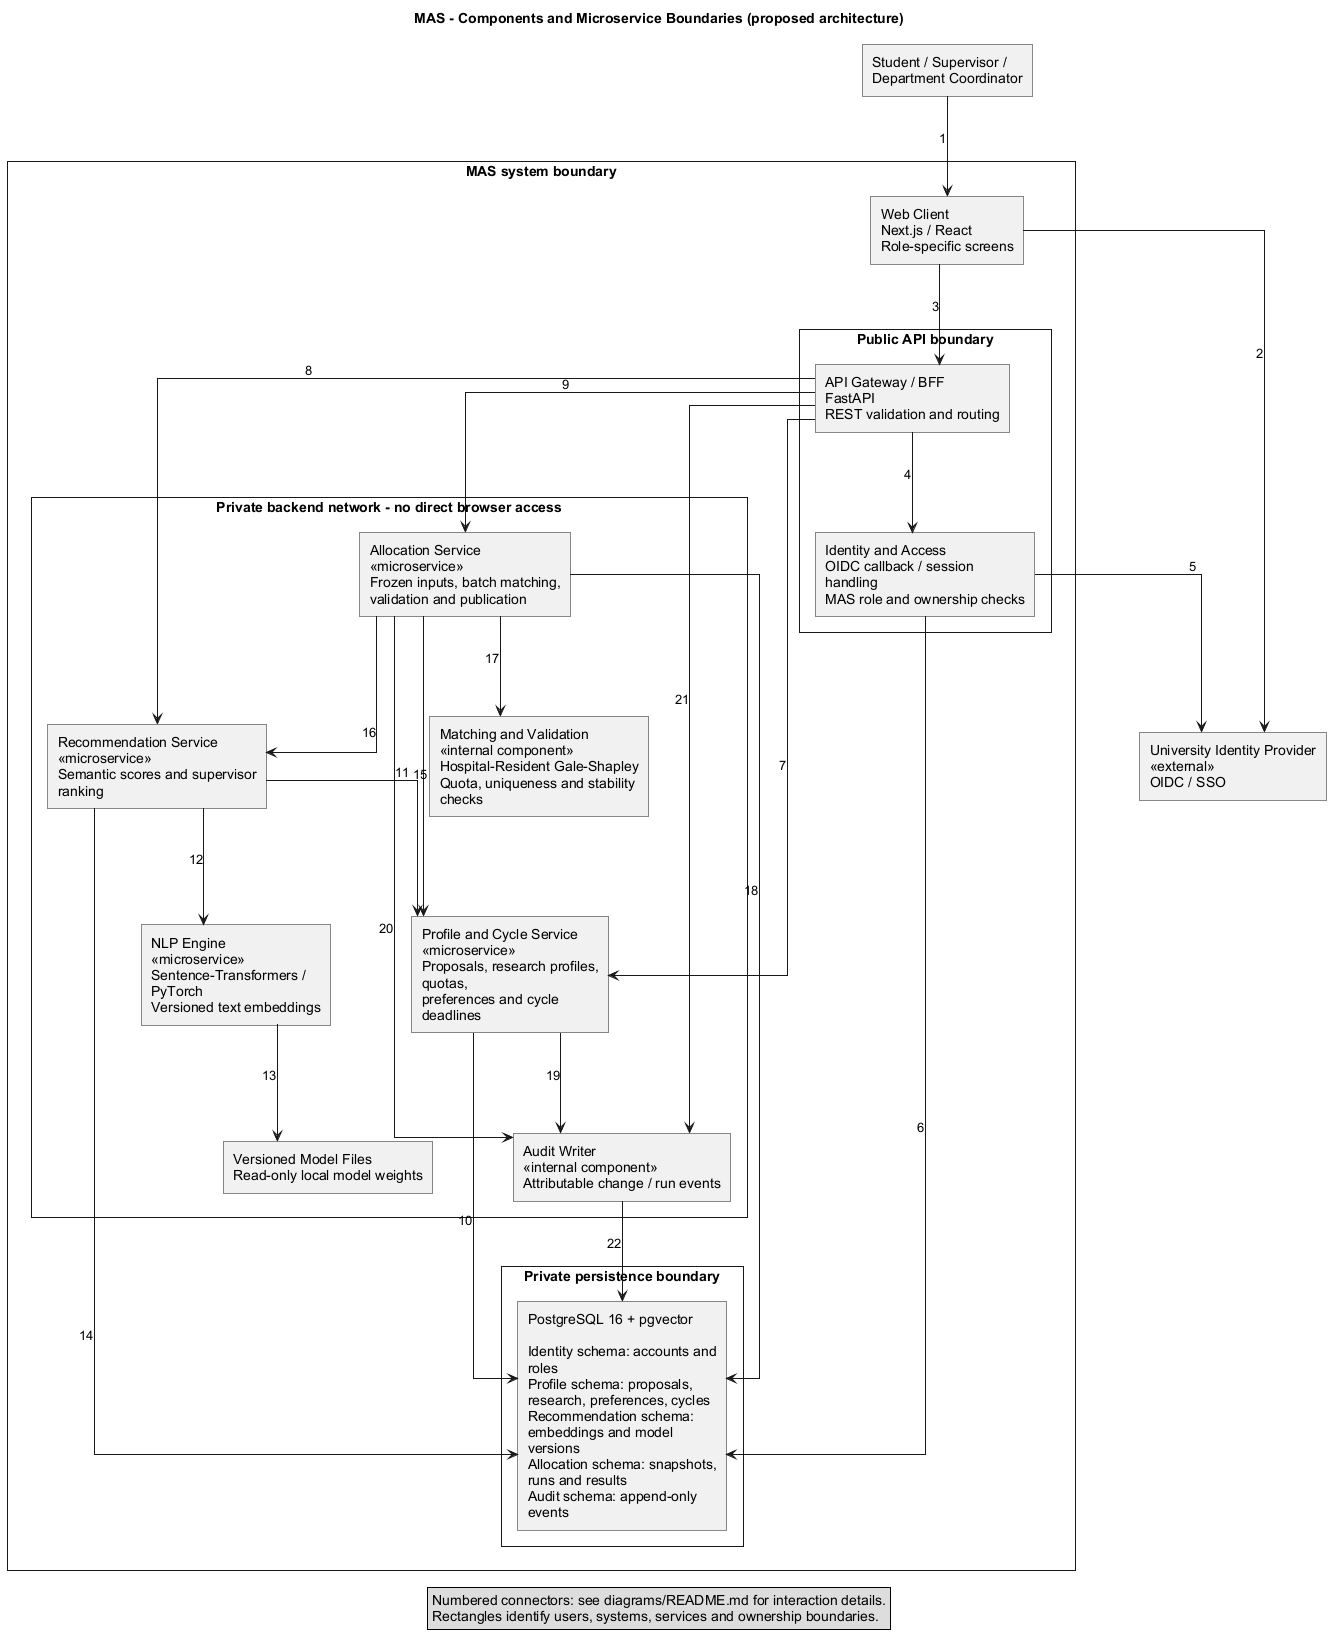
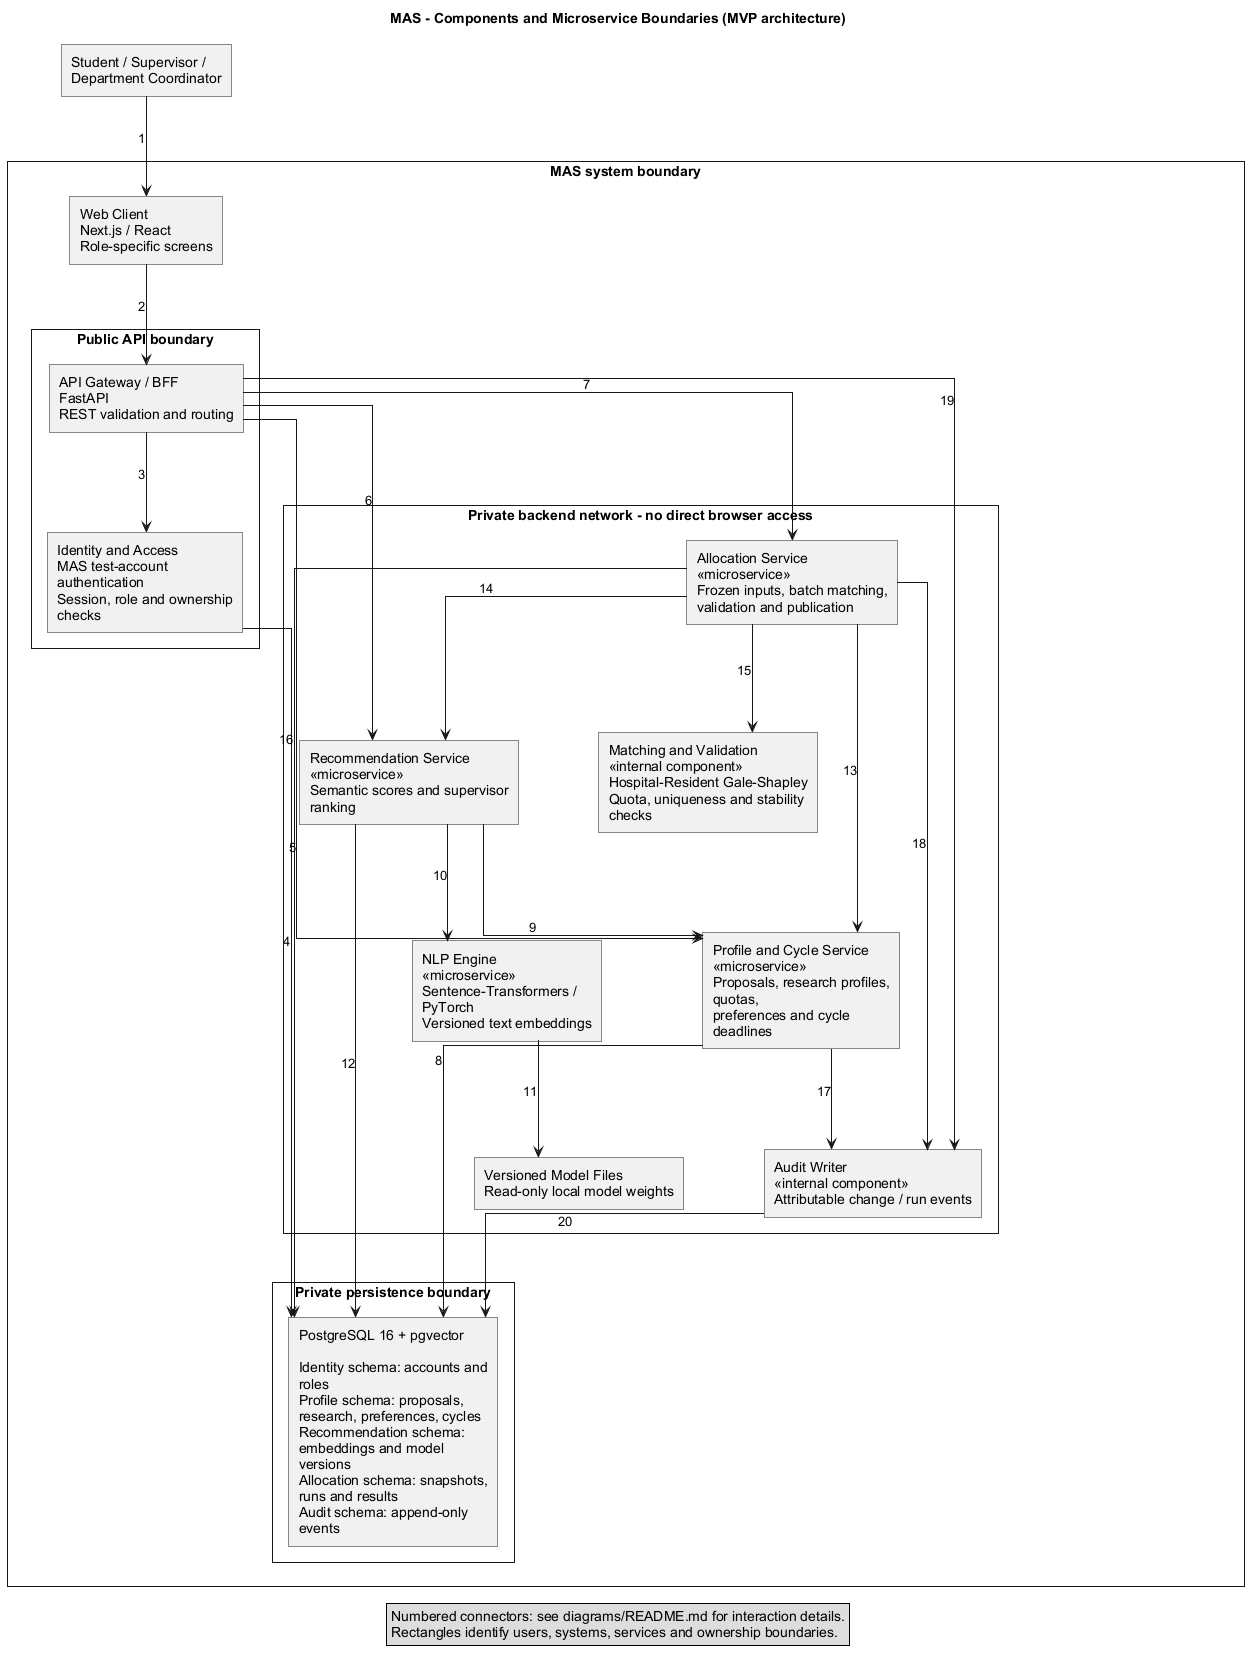
MAS-7a: Align MVP diagrams with local authentication and deadline

diff --git a/diagrams/README.md b/diagrams/README.md
@@ -1,19 +1,19 @@
 # MAS-7a: System context and component diagrams
 
-Due: October 17, 2026. These diagrams describe the proposed architecture derived from README.md and PRE_DEFENSE_PLAN.md; application services are not yet implemented.
+Presentation submission: October 15, 2026. These diagrams describe the proposed MVP architecture derived from README.md, the project proposal, and the requirements specification; application services are not yet implemented.
 
 ## Diagram sources
 
-- [System context](src/system-context.puml): Student, Supervisor and Department Coordinator interactions; external university identity provider; MAS ownership and public API/SSO boundaries.
+- [System context](src/system-context.puml): Student, Supervisor and Department Coordinator interactions; MAS ownership and the authenticated public API boundary.
 - [Component diagram](src/component-diagram.puml): web client, gateway and identity/access component; private profile/cycle, recommendation, NLP and allocation microservices; solver and audit components; PostgreSQL/pgvector and local model files.
 
 ## Architecture decisions and assumptions
 
-The public REST interface belongs to the FastAPI gateway. Browser requests never access private services or PostgreSQL directly. SSO authenticates identity, while MAS controls role assignments and record ownership. OIDC authorization-code flow with PKCE is proposed; university provider availability, registration and claims are pending confirmation. No working SSO integration is claimed.
+The public REST interface belongs to the FastAPI gateway. Browser requests never access private services or PostgreSQL directly. The MVP uses authorized MAS test accounts. The internal Identity and Access component authenticates these accounts, manages sessions, and enforces MAS roles and record ownership. Direct university SSO integration is excluded from the MVP in proposal section 6.3. Adding an external identity provider would require a separately reviewed scope and architecture decision.
 
 Profile/cycle data, embeddings, allocation snapshots/results and identity records have separate schema owners within a shared MVP database. Services read other domains through private authenticated APIs. The audit writer is an internal library/component participating in the calling service's transaction, not an independently committed remote audit service. Its insert-only permissions prevent application-level event mutation.
 
-The recommendation service calls a locally hosted, versioned NLP engine and stores embeddings in pgvector. Allocation consumes frozen, versioned inputs and runs capacity-constrained matching followed by independent hard-constraint and stability validation. Only a coordinator can publish a validated result. Insufficient capacity leaves explicit unmatched students. Final algorithm/model choices remain subject to MAS-5.
+The recommendation service calls a locally hosted, versioned NLP engine and stores embeddings in pgvector. Allocation consumes frozen, versioned inputs and runs capacity-constrained matching followed by independent hard-constraint and stability validation. Only a coordinator can publish a validated result. Insufficient capacity leaves explicit unmatched students. Final algorithm/model choices follow the technology-selection document (docs/05-technology-selection.md).
 
 Microservice boxes define the proposed API and ownership boundaries. This design does not assert independent production deployments already exist. A simpler deployment may co-locate services while preserving those boundaries. An asynchronous queue, external AI API, publication harvesting, and HR/payroll integration are not assumed dependencies.
 
@@ -29,7 +29,7 @@ Run from the repository root. Generated previews belong in diagrams/rendered. Ed
 
 ## Review and delivery
 
-Verify that all three actors are outside MAS; the identity provider is external; public versus private API boundaries are explicit; profile, recommendation, NLP, allocation and persistence responsibilities are visible; draft review and publication remain coordinator-controlled.
+Verify that all three actors are outside MAS; authentication and session handling belong to the internal Identity and Access component; public versus private API boundaries are explicit; profile, recommendation, NLP, allocation and persistence responsibilities are visible; draft review and publication remain coordinator-controlled.
 
 Use branch MAS-7a-system-diagrams and commit prefix MAS-7a:. Per the pre-defense plan, Dias's MAS-7a PR requires Nurzhan's review and approval. Link the merged PR to YouTrack before marking the task Done; do not push directly to main.
 
@@ -47,31 +47,28 @@ Validated and rendered with PlantUML 1.2026.2 on Java 21. SVG previews and PNG c
 | 1 | student | mas | Submit proposal and ranked preferences;; view recommendations and own published result; [HTTPS web UI / authenticated REST API] |
 | 2 | supervisor | mas | Maintain research profile and capacity;; view own published assignments; [HTTPS web UI / authenticated REST API] |
 | 3 | coordinator | mas | Configure cycles and quotas; run, review,; publish and export allocations; [HTTPS web UI / authenticated REST API] |
-| 4 | mas | idp | Browser SSO redirects; exchange authorization code; obtain identity;; retrieve signing keys [OIDC over HTTPS] |
 
 ## Component diagram connections
 
 | No. | From | To | Interaction |
 |---|---|---|---|
 | 1 | users | web | Browser [HTTPS] |
-| 2 | web | idp | Authorization redirect [HTTPS / OIDC + PKCE] |
-| 3 | web | api | REST requests / responses [HTTPS, session] |
-| 4 | api | auth | Authenticate and authorize request |
-| 5 | auth | idp | Code exchange / signing-key discovery [HTTPS] |
-| 6 | auth | db | SQL: MAS accounts and role mapping |
-| 7 | api | profiles | Private authenticated HTTP / JSON |
-| 8 | api | recommend | Private authenticated HTTP / JSON |
-| 9 | api | allocation | Private authenticated HTTP / JSON |
-| 10 | profiles | db | SQL: own schema read/write |
-| 11 | recommend | profiles | Read authorized proposal / research text; [private HTTP / JSON] |
-| 12 | recommend | nlp | Embed text [private HTTP / JSON]; Return vector and model version |
-| 13 | nlp | weights | Load pinned model version |
-| 14 | recommend | db | SQL / vector search:; own embeddings schema |
-| 15 | allocation | profiles | Obtain cycle inputs and approved quotas; [private HTTP / JSON] |
-| 16 | allocation | recommend | Obtain versioned semantic scores; [private HTTP / JSON] |
-| 17 | allocation | solver | Frozen rankings, preferences and capacities; Return assignments and validation report |
-| 18 | allocation | db | SQL: immutable snapshots and runs;; transactional result publication |
-| 19 | profiles | audit | Record accepted input changes |
-| 20 | allocation | audit | Record run and publication changes |
-| 21 | api | audit | Record coordinator policy changes |
-| 22 | audit | db | SQL: insert audit events only |
+| 2 | web | api | REST requests / responses [HTTPS, session] |
+| 3 | api | auth | Authenticate MAS test account; validate session, role and ownership |
+| 4 | auth | db | SQL: MAS accounts and role mapping |
+| 5 | api | profiles | Private authenticated HTTP / JSON |
+| 6 | api | recommend | Private authenticated HTTP / JSON |
+| 7 | api | allocation | Private authenticated HTTP / JSON |
+| 8 | profiles | db | SQL: own schema read/write |
+| 9 | recommend | profiles | Read authorized proposal / research text [private HTTP / JSON] |
+| 10 | recommend | nlp | Embed text [private HTTP / JSON]; return vector and model version |
+| 11 | nlp | weights | Load pinned model version |
+| 12 | recommend | db | SQL / vector search: own embeddings schema |
+| 13 | allocation | profiles | Obtain cycle inputs and approved quotas [private HTTP / JSON] |
+| 14 | allocation | recommend | Obtain versioned semantic scores [private HTTP / JSON] |
+| 15 | allocation | solver | Frozen rankings, preferences and capacities; return assignments and validation report |
+| 16 | allocation | db | SQL: immutable snapshots and runs; transactional result publication |
+| 17 | profiles | audit | Record accepted input changes |
+| 18 | allocation | audit | Record run and publication changes |
+| 19 | api | audit | Record coordinator policy changes |
+| 20 | audit | db | SQL: insert audit events only |

diff --git a/README.md b/README.md
@@ -65,10 +65,11 @@ Every academic year, thesis allocation runs into the same bottlenecks:
   * Web interface for preference submission and results inspection.
 * **Out of Scope:**
   * Direct integration with internal university HR/payroll systems.
+  * University SSO integration; the MVP uses authorized MAS test accounts.
   * Native mobile apps (the web client is mobile-responsive).
 
 ### Current Development Status
-* **Milestone:** Pre-Defense 1 (October 24, 2026)
+* **Milestone:** Diploma Project Pre-Defense Preparation (presentation submission: October 15, 2026)
 * **Stage:** Analysis, System Design, and Requirements Formalization.
 * **Current Tasks:**
   - [x] Initial repository setup and branch conventions
